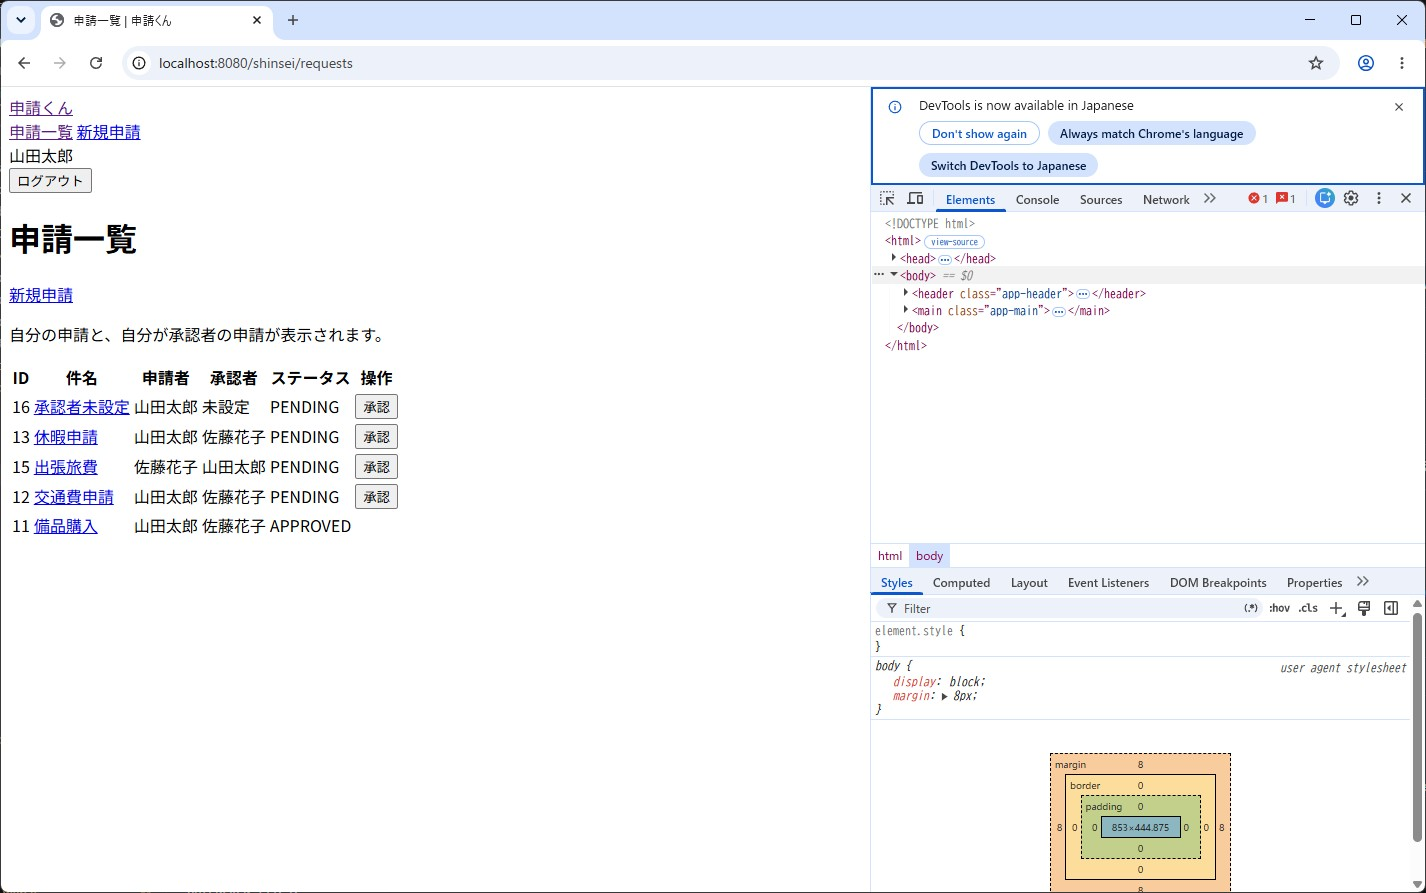
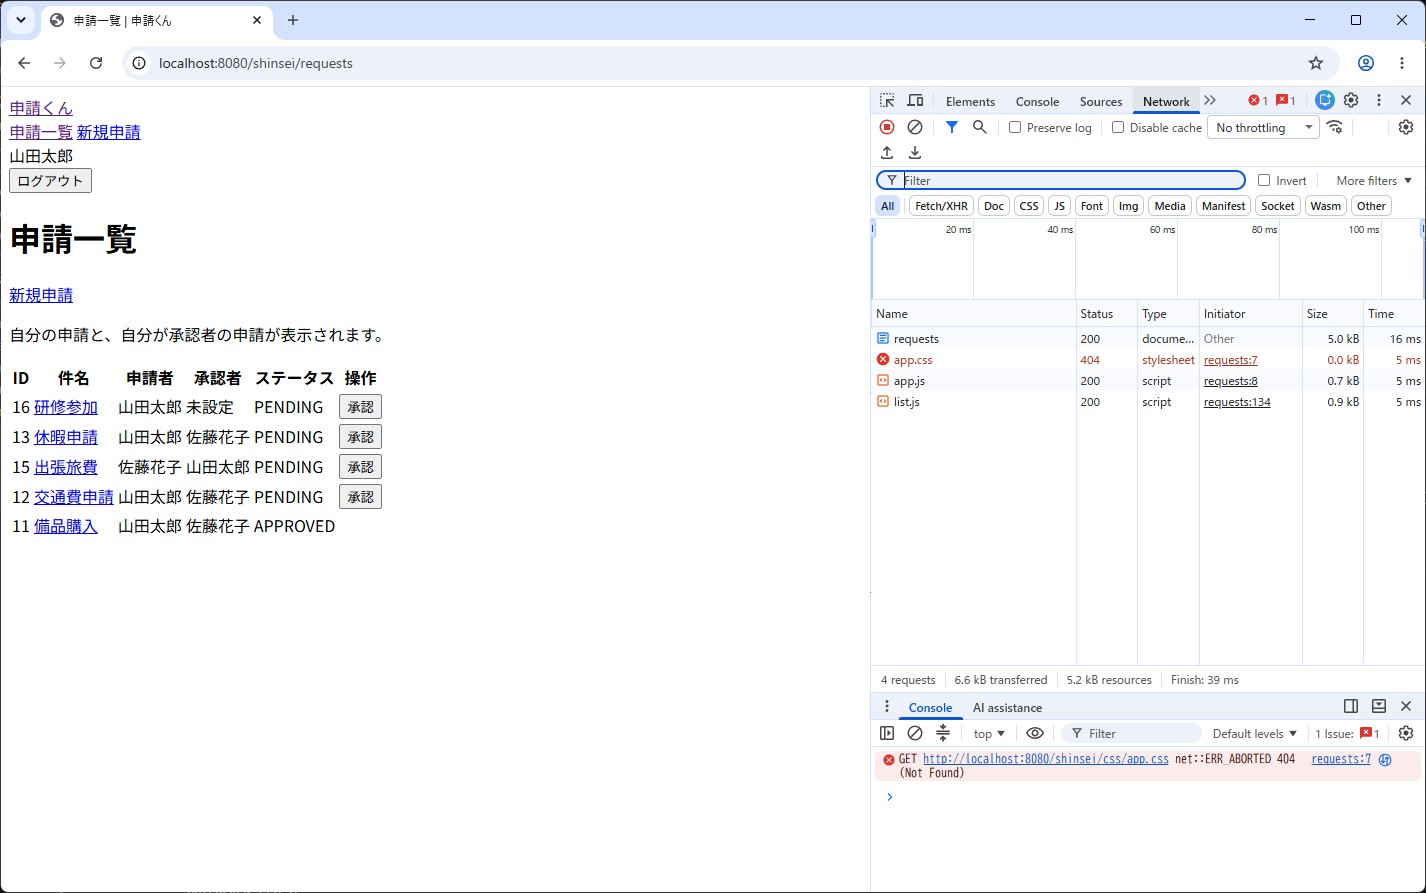
スタック図の行番号注釈を実ファイルに合わせ、ID 16 の件名が原因を先に出さないよう研修参加へ変える。HTTPステータスコードの表記、500 画面の本文、Cookie の鍵、ログ 1 行の図も直す。

diff --git a/src/content/web.ts b/src/content/web.ts
@@ -135,7 +135,7 @@ export const webTrack: Track = {
         { type: "diagram", name: "get-post" },
         {
           type: "h2",
-          text: "HTTP ステータスコード",
+          text: "HTTPステータスコード",
         },
         { type: "diagram", name: "status-codes" },
         {
@@ -282,7 +282,7 @@ export const webTrack: Track = {
           type: "p",
           text: "HTTP は、前のリクエストを覚えていません。たとえば、ログイン済みかどうかも次のリクエストには引き継がれません。サーバはセッションを作り、その ID を Cookie としてブラウザに渡します。",
         },
-        { type: "diagram", name: "session", caption: "ブラウザが持つのはキーだけ。中身はサーバ側です。" },
+        { type: "diagram", name: "session", caption: "ブラウザが持つのは鍵だけ。中身はサーバ側です。" },
         {
           type: "h2",
           text: "申請くんの例",
@@ -319,7 +319,7 @@ Cookie: JSESSIONID=AB12CD34`,
         },
         {
           type: "p",
-          text: "キーの名前やオブジェクトの形は、アプリとフレームワーク次第です。パスワードは Cookie には出ません。確認するのは、同じ ID でログインユーザを引けることです。",
+          text: "中身の持ち方は、アプリとフレームワーク次第です。パスワードは Cookie には出ません。確認するのは、同じ ID でログインユーザを引けることです。",
         },
         {
           type: "ol",

diff --git a/src/components/Diagram.tsx b/src/components/Diagram.tsx
@@ -272,7 +272,7 @@ function RequestParams() {
 function SessionCookie() {
   return (
     <div className="d-split">
-      <PhotoNode src="/images/keys.jpg" alt="鍵のかかった南京錠" kicker="BROWSER" title="Cookie" sub="キーだけ持つ" />
+      <PhotoNode src="/images/keys.jpg" alt="鍵のかかった南京錠" kicker="BROWSER" title="Cookie" sub="鍵だけ持つ" />
       <div className="d-arrows">
         <Arrow label="ID だけ往復する" />
       </div>
@@ -461,7 +461,7 @@ const stackDump: { text: string; kind: "ex" | "hit" | "own" | "dim"; note?: stri
   {
     kind: "hit",
     text: "    at jp.co.example.shinsei.service.RequestService.approve(RequestService.java:47)",
-    note: "このファイルの 41 行目を最初に調べる",
+    note: "このファイルの 47 行目を最初に調べる",
   },
   {
     kind: "dim",
@@ -479,7 +479,7 @@ const stackDump: { text: string; kind: "ex" | "hit" | "own" | "dim"; note?: stri
   {
     kind: "own",
     text: "    at jp.co.example.shinsei.controller.RequestController.approve(RequestController.java:70)",
-    note: "呼び出し元。このファイルの 58 行目",
+    note: "呼び出し元。このファイルの 70 行目",
   },
   {
     kind: "dim",
@@ -758,7 +758,7 @@ function LogLine() {
         </span>
         <span className="url-part res">
           dispatcherServlet
-          <em>どのクラスか</em>
+          <em>ログの名前</em>
         </span>
         <span className="url-part query">
           Servlet.service() threw exception

diff --git a/src/data/labs.ts b/src/data/labs.ts
@@ -12,7 +12,7 @@ export const requestFlow: FlowStep[] = [
     layer: "Browser",
     title: "一覧を開く",
     detail:
-      "利用者が /shinsei/requests にアクセスします。ブラウザは Cookie に入っているセッション ID も一緒に送ります。この ID は次のフィルタで、サーバ側のセッションを引くキーになります。",
+      "利用者が /shinsei/requests にアクセスします。ブラウザは Cookie に入っているセッション ID も一緒に送ります。この ID は次のフィルタで、サーバ側のセッションを引く鍵になります。",
     code: `GET /shinsei/requests HTTP/1.1
 Host: intranet.example.co.jp
 Cookie: JSESSIONID=AB12CD34
@@ -114,7 +114,7 @@ export const stackCases: StackCase[] = [
   {
     id: "npe",
     title: "承認ボタンでステータスコード 500",
-    symptom: "山田で申請 ID 16「承認者未設定」の詳細を開き、「承認」を押すと画面がエラーになる。",
+    symptom: "山田で申請 ID 16「研修参加」の詳細を開き、「承認」を押すと画面がエラーになる。",
     lines: [
       {
         kind: "exception",

diff --git a/src/data/terms.ts b/src/data/terms.ts
@@ -26,7 +26,7 @@ export const terms: TermDef[] = [
     body: "HTTP メソッドの代表例。GET は取得、POST は登録や状態を変える操作に使われることが多いです。PUT / PATCH / DELETE も API でよく使います。約束と実装がずれることもあるので、Network タブで確認します。",
   },
   {
-    term: "HTTP ステータスコード",
+    term: "HTTPステータスコード",
     aliases: ["HTTPステータスコード", "HTTP ステータスコード", "ステータスコード", "2xx", "3xx", "4xx", "5xx"],
     body: "応答の結果を表す 3 桁の番号。2xx は成功、3xx は別 URL へ、4xx はクライアント側、5xx はサーバ側の問題です。",
   },

diff --git a/src/content/intro.ts b/src/content/intro.ts
@@ -60,7 +60,7 @@ export const introTrack: Track = {
           type: "callout",
           kind: "note",
           title: "実装はアプリごとに違う",
-          text: "HTTP ステータスコードの意味や、よくある層の名前は一般論として書きます。権限不足のときに何が返るか、ログの出力先などは、読んでいるアプリの実装次第です。",
+          text: "HTTPステータスコードの意味や、よくある層の名前は一般論として書きます。権限不足のときに何が返るか、ログの出力先などは、読んでいるアプリの実装次第です。",
         },
         {
           type: "h2",

diff --git a/src/content/troubleshoot.ts b/src/content/troubleshoot.ts
@@ -253,7 +253,7 @@ export const troubleshootTrack: Track = {
           type: "p",
           text: "書式は設定次第ですが、次の要素が並ぶことが多いです。",
         },
-        { type: "diagram", name: "log-line" },
+        { type: "diagram", name: "log-line", caption: "ログの名前は、原因のクラスとは限りません。原因は下の at 行で見ます。" },
         {
           type: "code",
           title: "例外が出たとき（申請くん・ID 16）",

diff --git a/src/content/scenario.ts b/src/content/scenario.ts
@@ -144,7 +144,7 @@ export const scenarioTrack: Track = {
         {
           type: "ul",
           items: [
-            "山田（yamada）でログイン。申請 ID 16「承認者未設定」。検証用環境",
+            "山田（yamada）でログイン。申請 ID 16「研修参加」。検証用環境",
             "Network タブで POST /shinsei/requests/16/approve が 500",
             "Content-Type は text/html",
           ],

diff --git a/shinsei-kun/src/main/resources/templates/error/500.html b/shinsei-kun/src/main/resources/templates/error/500.html
@@ -2,7 +2,7 @@
 <html xmlns:th="http://www.thymeleaf.org" th:replace="fragments/layout :: layout(title='エラー', content=~{::main})">
 <main>
   <h1>エラーが発生しました</h1>
-  <p class="lead">ログのスタックトレースを確認しましょう。</p>
+  <p class="lead">時間をおいて再度お試しください。</p>
   <p><a th:href="@{/requests}">申請一覧へ戻る</a></p>
 </main>
 </html>

diff --git a/shinsei-kun/NOTES.md b/shinsei-kun/NOTES.md
@@ -8,18 +8,18 @@
 - **一覧の承認は POST しない。** シナリオ「承認ボタンを押しても何も起きない」用です。`list.js` が `id="csrfToken"` の value を読みますが、一覧 HTML にその id はありません。`preventDefault()` のあと例外になり、POST は飛びません。詳細の承認は `form.js-approve-confirm` と `app.js` の確認ダイアログだけで、POST します。
 - **パスワードは BCrypt、POST フォームには CSRF 用 hidden がある。** 動かすための簡略はありますが、平文パスワード・CSRF 無効・SQL の文字列連結はしません。
 - **教材の短い抜粋に無いクラスや処理がある。** 新規申請、`findById` の null チェック、`@Transactional`、ログインユーザ、例外の出口、画面レイアウトなどです。動かすための穴埋めです。
-- **ID 16 は、承認者が未設定の教材用データ。** `approver_id=NULL` は意図的な不整合です。山田で詳細を開いて承認すると、`RequestService.approve` の `request.getApproverId().equals(...)` で NullPointerException が発生します。原因を追うシナリオのため、この行を null 安全にはしません。
+- **ID 16「研修参加」は、承認者が未設定の教材用データ。** タイトルは業務らしい名前にしてあります。`approver_id=NULL` は意図的な不整合です。山田で詳細を開いて承認すると、`RequestService.approve` の `request.getApproverId().equals(...)` で NullPointerException が発生します。原因を追うシナリオのため、この行を null 安全にはしません。
 - **ID 11 は、承認済み申請の業務メッセージ用データ。** 詳細ではステータスにかかわらず承認フォームを表示します。送信すると Controller の PENDING 判定で「この申請は承認できません」を flash 表示します。通常の業務画面より操作範囲を広げた教材用仕様です。
 
 ## 教材の抜粋との差
 
 - **一覧 SQL は `t_user` を JOIN している。** 申請者名・承認者名を画面に出すためです。教材の抜粋は `FROM t_request WHERE ...` だけです。MyBatis の DEBUG ログは抜粋と一致しません。実ファイルの XML とは一致します。
-- **初期データは 5 件。** 教材の一覧 HTML 例は「交通費申請」「備品購入」の 2 行です。実データは休暇申請・出張旅費・承認者未設定が足されています。`ORDER BY created_at DESC` なので、交通費申請（ID 12）は先頭ではありません。
+- **初期データは 5 件。** 教材の一覧 HTML 例は「交通費申請」「備品購入」の 2 行です。実データは休暇申請・出張旅費・研修参加が足されています。`ORDER BY created_at DESC` なので、交通費申請（ID 12）は先頭ではありません。
 - **教材に載せるスタックの行番号は実ファイルと合わせる。** `RequestService.java` と `RequestController.java` を変更したときは、ラボ、図、クイズ、シナリオの番号も更新します。
 - **教材のソースツリーに無いファイルがある。** `WebMvcConfig`、`LoggingJavaMailSender`、`AccessLogInterceptor`、`ServiceLoggingAspect`、エラー画面などです。Interceptor / AOP / メールログを動かすために足しています。
 - **`static/demo/` は教材キャプチャ用のモック HTML です。** 0 件や CSS 無しなど、起動中のアプリでは出しにくい見え方を撮るためのものです。業務の画面ではありません。Network タブは偽 HTML ではなく、headed Chrome の実物を撮ります。手順は `.cursor/rules/textbook-screenshots.mdc` です。
 - **画面にエラーが出ているが POST が無い見え方は、ページ単体のモックでは撮りません。** サーバの flash に見えるためです。一覧で submit を止めて画面にエラーを出し、headed Chrome のウィンドウ全体を撮ります。
-- **承認 500 と業務メッセージの画面は実アプリ経路で撮る。** ID 16 の実 POST で 500 画面と Network タブを、ID 11 の実 POST で flash 画面を撮ります。500 テンプレートの見出しは教材と同じ「エラーが発生しました」です。
+- **承認 500 と業務メッセージの画面は実アプリ経路で撮る。** ID 16 の実 POST で 500 画面と Network タブを、ID 11 の実 POST で flash 画面を撮ります。500 テンプレートの見出しは教材と同じ「エラーが発生しました」です。本文は利用者向けの定型文です。
 - **ページ画像のアドレスバーは合成です。** 三点は macOS 風です。Network タブは Windows の実 Chrome なので、枠の見た目は揃いません。
 - **HTML が終わらない見え方は、ページ内スピナーではありません。** 申請くんの一覧はサーバ側で HTML を返します。リロードが止まると、直前の一覧が残ったまま Network の document 行が pending になります。
 

diff --git a/public/images/SOURCES.md b/public/images/SOURCES.md
@@ -23,7 +23,7 @@
 | `screen-detail.jpg` | 申請くん GET `/shinsei/requests/12` |
 | `screen-not-found.jpg` | 申請くん GET `/shinsei/requests/99999` |
 | `screen-forbidden.jpg` | モック `demo/forbidden.html`（承認権限が無いときの画面） |
-| `screen-error-500.jpg` | 申請くん POST `/shinsei/requests/16/approve`（承認者未設定、500） |
+| `screen-error-500.jpg` | 申請くん POST `/shinsei/requests/16/approve`（研修参加、承認者 NULL、500） |
 | `screen-cannot-approve.jpg` | 申請くん POST `/shinsei/requests/11/approve` 後の詳細画面 |
 | `screen-list-empty.jpg` | モック `demo/list-empty.html` |
 | `screen-list-unstyled.jpg` | モック `demo/list-unstyled.html` |
@@ -32,7 +32,7 @@
 | `screen-network-no-post.jpg` | 申請くん一覧で承認を押した直後（POST 無し）の Network タブ |
 | `screen-network-js-error.jpg` | 申請くん一覧で画面にエラーが出ているが POST が無い Network タブ |
 | `screen-network-403.jpg` | 申請くん POST `/shinsei/requests/12/approve`（山田、403）の Network タブ |
-| `screen-network-500.jpg` | 申請くん POST `/shinsei/requests/16/approve`（承認者未設定、500）の Network タブ |
+| `screen-network-500.jpg` | 申請くん POST `/shinsei/requests/16/approve`（研修参加、承認者 NULL、500）の Network タブ |
 | `screen-network-pending.jpg` | HTML のリクエストを終わらせない Network タブ |
 
 ## 図のアイコン（インライン SVG）
